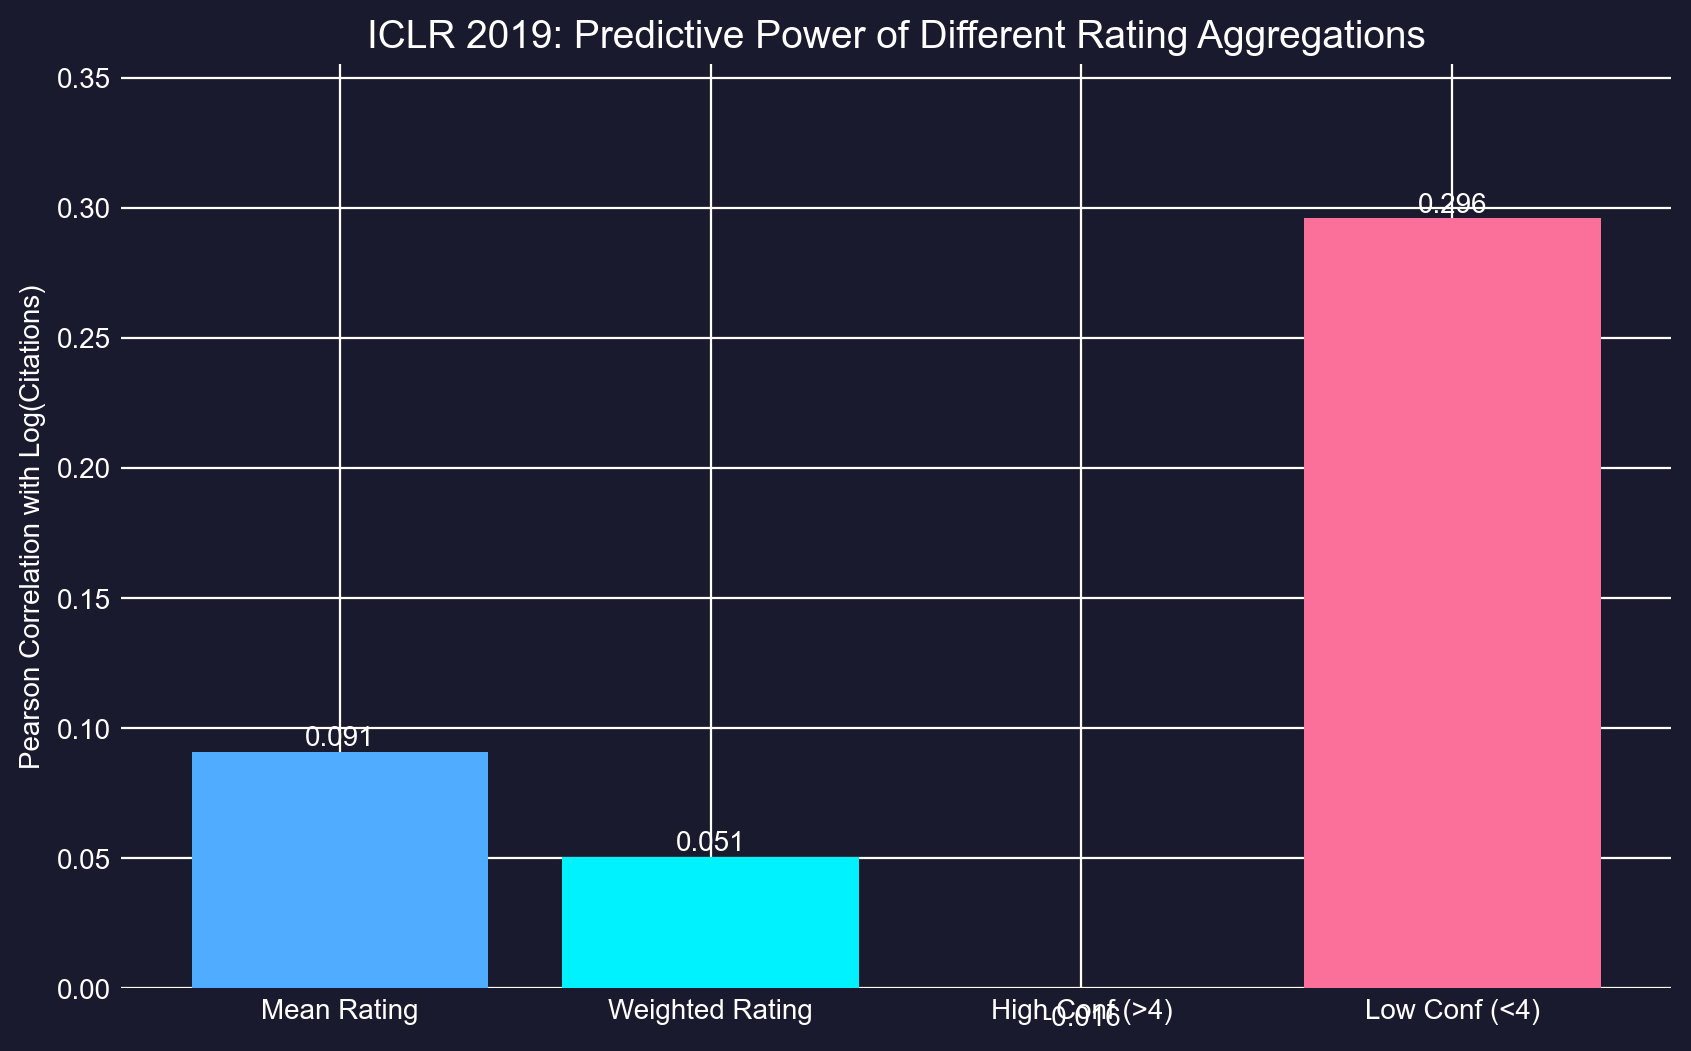
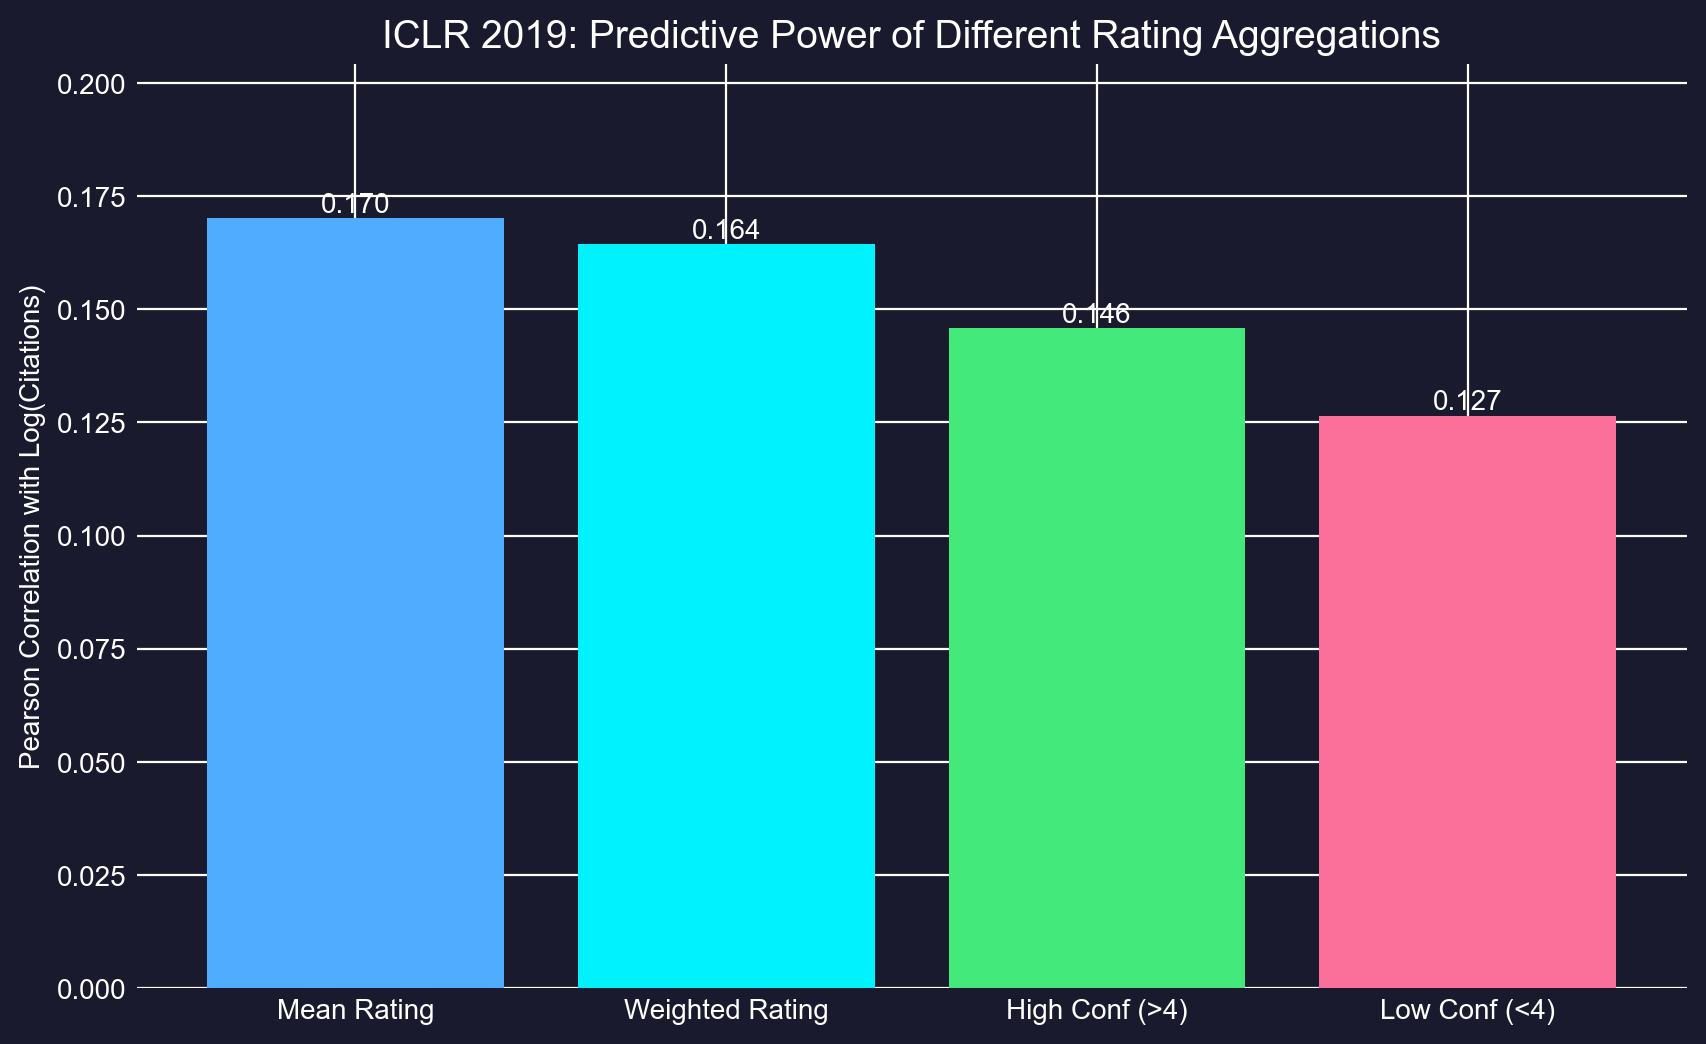
FIX: 2019 data issue: title matching

diff --git a/scripts/analyze.py b/scripts/analyze.py
@@ -109,9 +109,17 @@ def load_data(data_dir: Path) -> pd.DataFrame:
         with open(citation_file, "r", encoding="utf-8") as f:
             citations = json.load(f)
 
-        # Merge citations
+        # Build case-insensitive lookup (normalize: lowercase + strip whitespace)
+        citation_lookup = {
+            " ".join(str(t).lower().split()): v 
+            for t, v in citations.items()
+        }
+        
+        # Merge citations with case-insensitive matching
         df["citations"] = df["title"].apply(
-            lambda t: citations.get(str(t), {}).get("num_citations")
+            lambda t: citation_lookup.get(
+                " ".join(str(t).lower().split()), {}
+            ).get("num_citations")
         )
         logger.info(f"Merged citations from {citation_file.name}")
     else:

diff --git a/analysis/result.md b/analysis/result.md
@@ -2,9 +2,10 @@
 
 |   Year |   Mean Rating |   Weighted Rating |   High Conf (>4) |   Low Conf (<4) |   Rating Variance |
 |-------:|--------------:|------------------:|-----------------:|----------------:|------------------:|
-|   2017 |    0.152787   |        0.149168   |        0.14343   |       0.0668612 |      -0.0928342   |
-|   2018 |    0.209263   |        0.211553   |        0.192107  |       0.111913  |       0.000702532 |
-|   2020 |    0.00658385 |        0.00658385 |      nan         |     nan         |       0.112526    |
-|   2021 |    0.110926   |        0.0987418  |        0.0665728 |       0.0961335 |       0.0396895   |
-|   2022 |    0.12811    |        0.125039   |        0.107447  |       0.130538  |      -0.0472649   |
-|   2023 |    0.0794332  |        0.0517412  |       -0.0755383 |       0.161601  |      -0.00334303  |
+|   2017 |     0.152787  |         0.149168  |        0.14343   |       0.0668612 |      -0.0928342   |
+|   2018 |     0.209263  |         0.211553  |        0.192107  |       0.111913  |       0.000702532 |
+|   2019 |     0.170139  |         0.164451  |        0.145801  |       0.126531  |      -0.0276559   |
+|   2020 |     0.114334  |         0.114334  |      nan         |     nan         |      -0.0856904   |
+|   2021 |     0.110926  |         0.0987418 |        0.0665728 |       0.0961335 |       0.0396895   |
+|   2022 |     0.12811   |         0.125039  |        0.107447  |       0.130538  |      -0.0472649   |
+|   2023 |     0.0794332 |         0.0517412 |       -0.0755383 |       0.161601  |      -0.00334303  |

diff --git a/Confidence_Analysis.md b/Confidence_Analysis.md
@@ -23,7 +23,7 @@ Specifically:
 | :--- | :--- | :--- | :--- | :--- |
 | **2017** | **0.153** | 0.143 | 0.067 | Experts > Generalists |
 | **2018** | **0.209** | 0.192 | 0.112 | Experts > Generalists |
-| **2019** | 0.091 | -0.016 | **0.296** | **Generalists > Experts** |
+| **2019** | **0.170** | 0.146 | 0.127 | Experts > Generalists |
 | **2020** | 0.007 | N/A | N/A | (Confidence data issue) |
 | **2021** | 0.111 | 0.067 | **0.096** | **Shift Begins** (Generalists > Experts) |
 | **2022** | 0.128 | 0.107 | **0.131** | Generalists > Experts |
